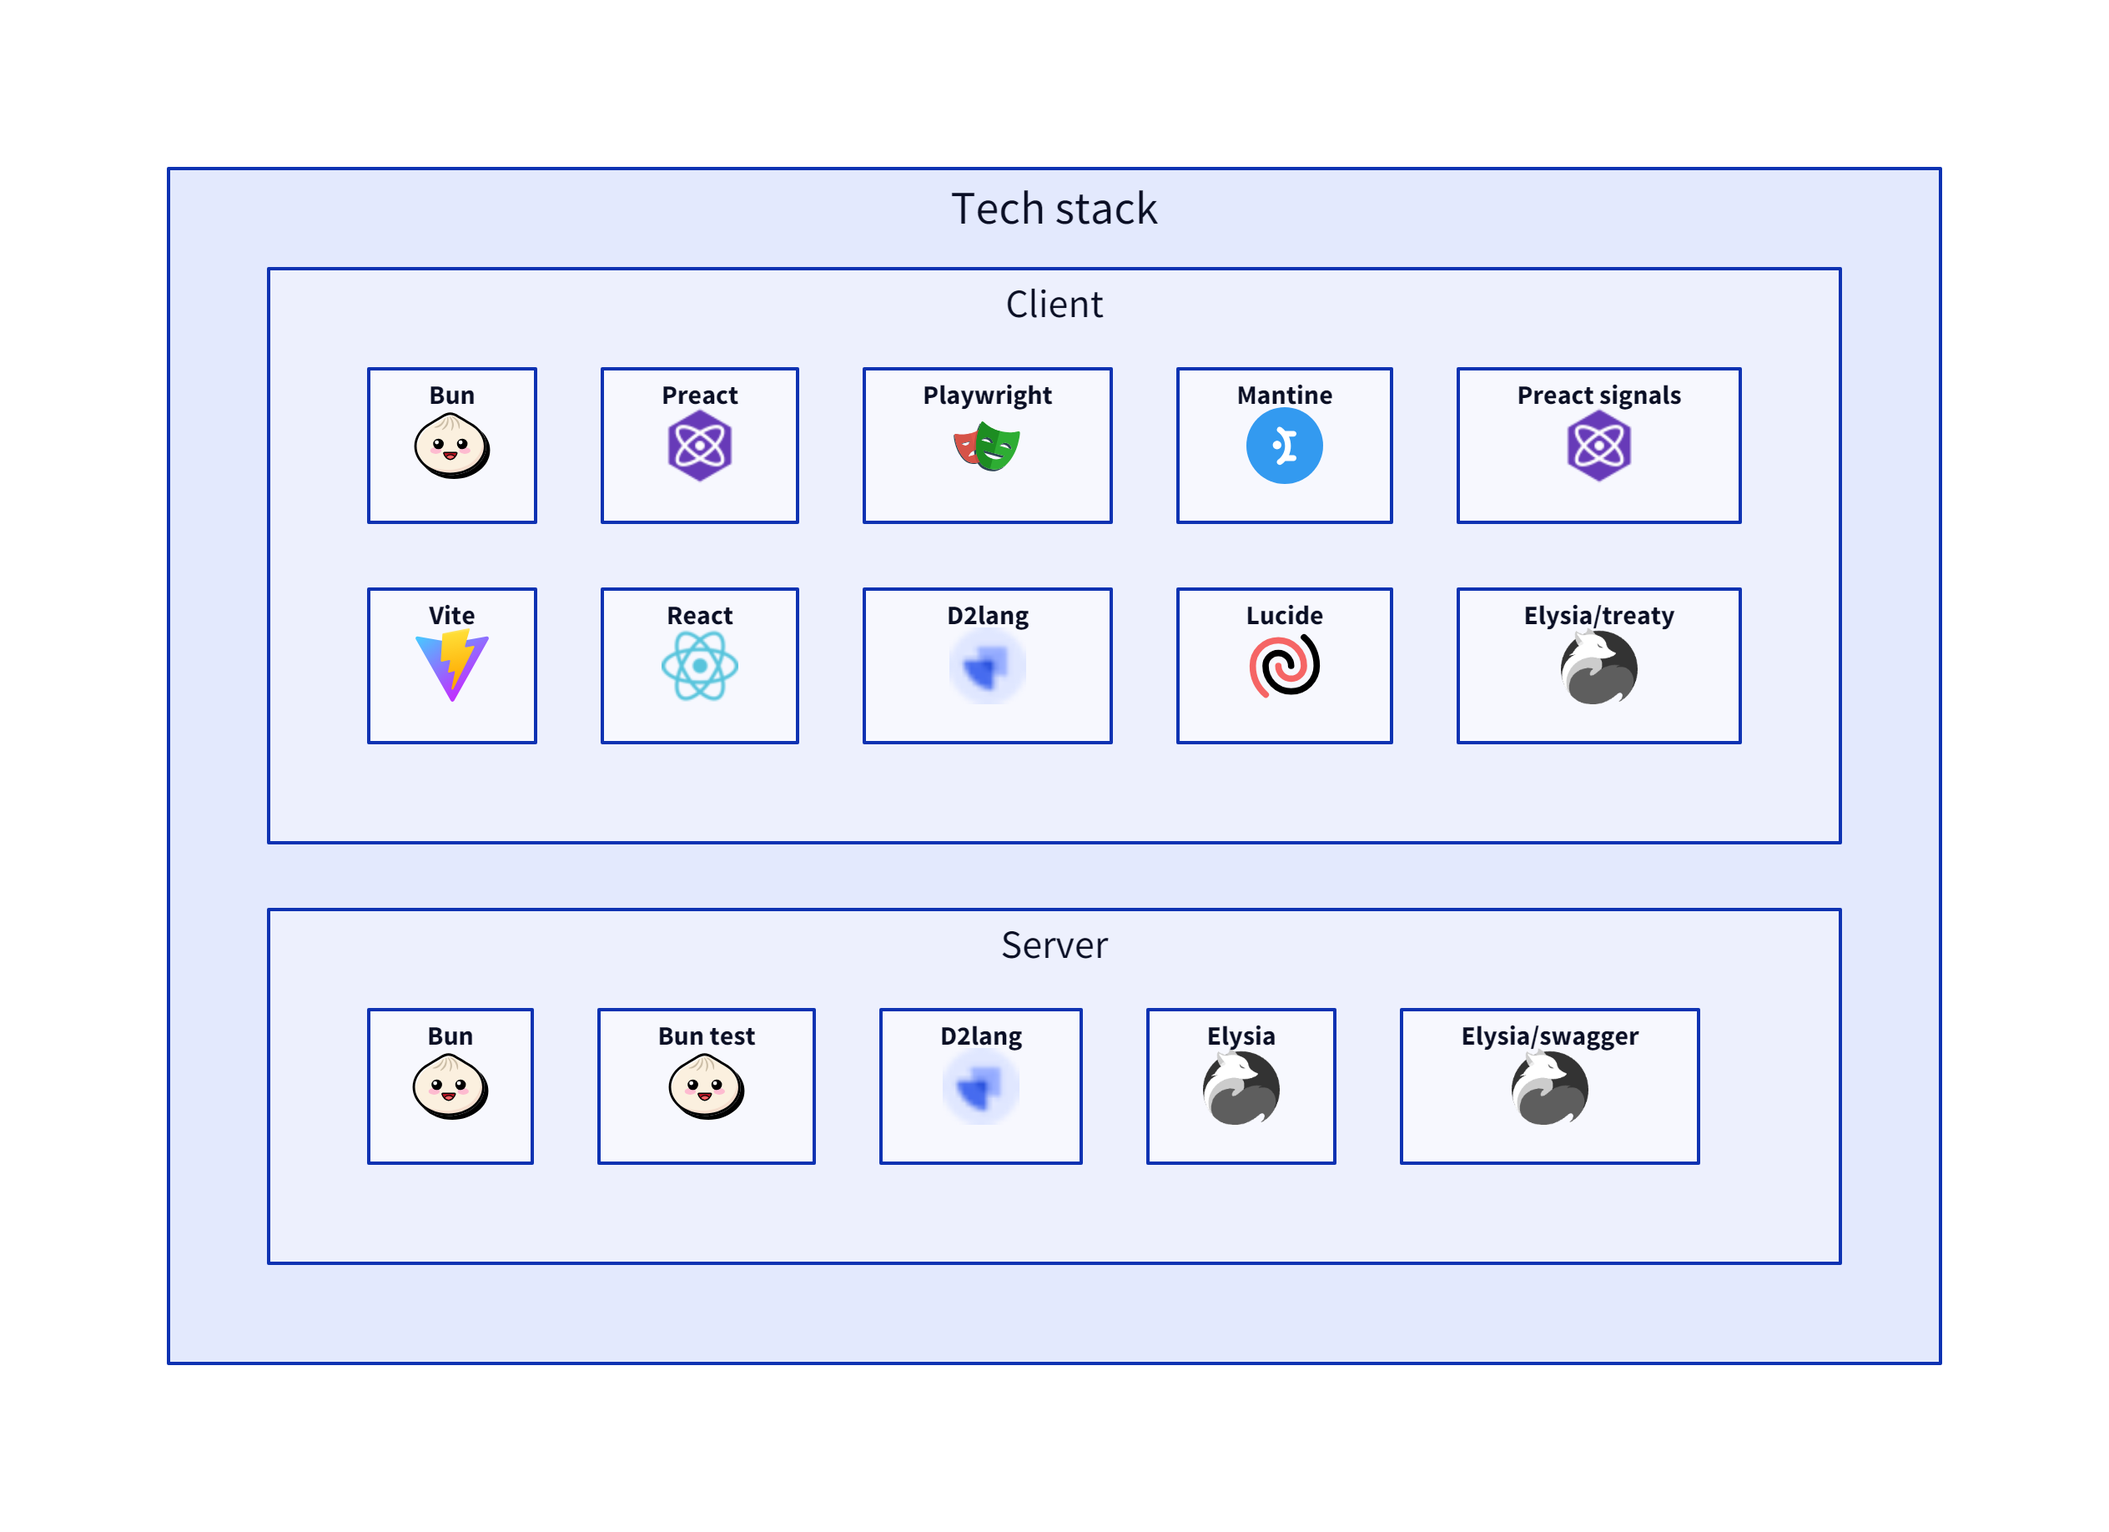
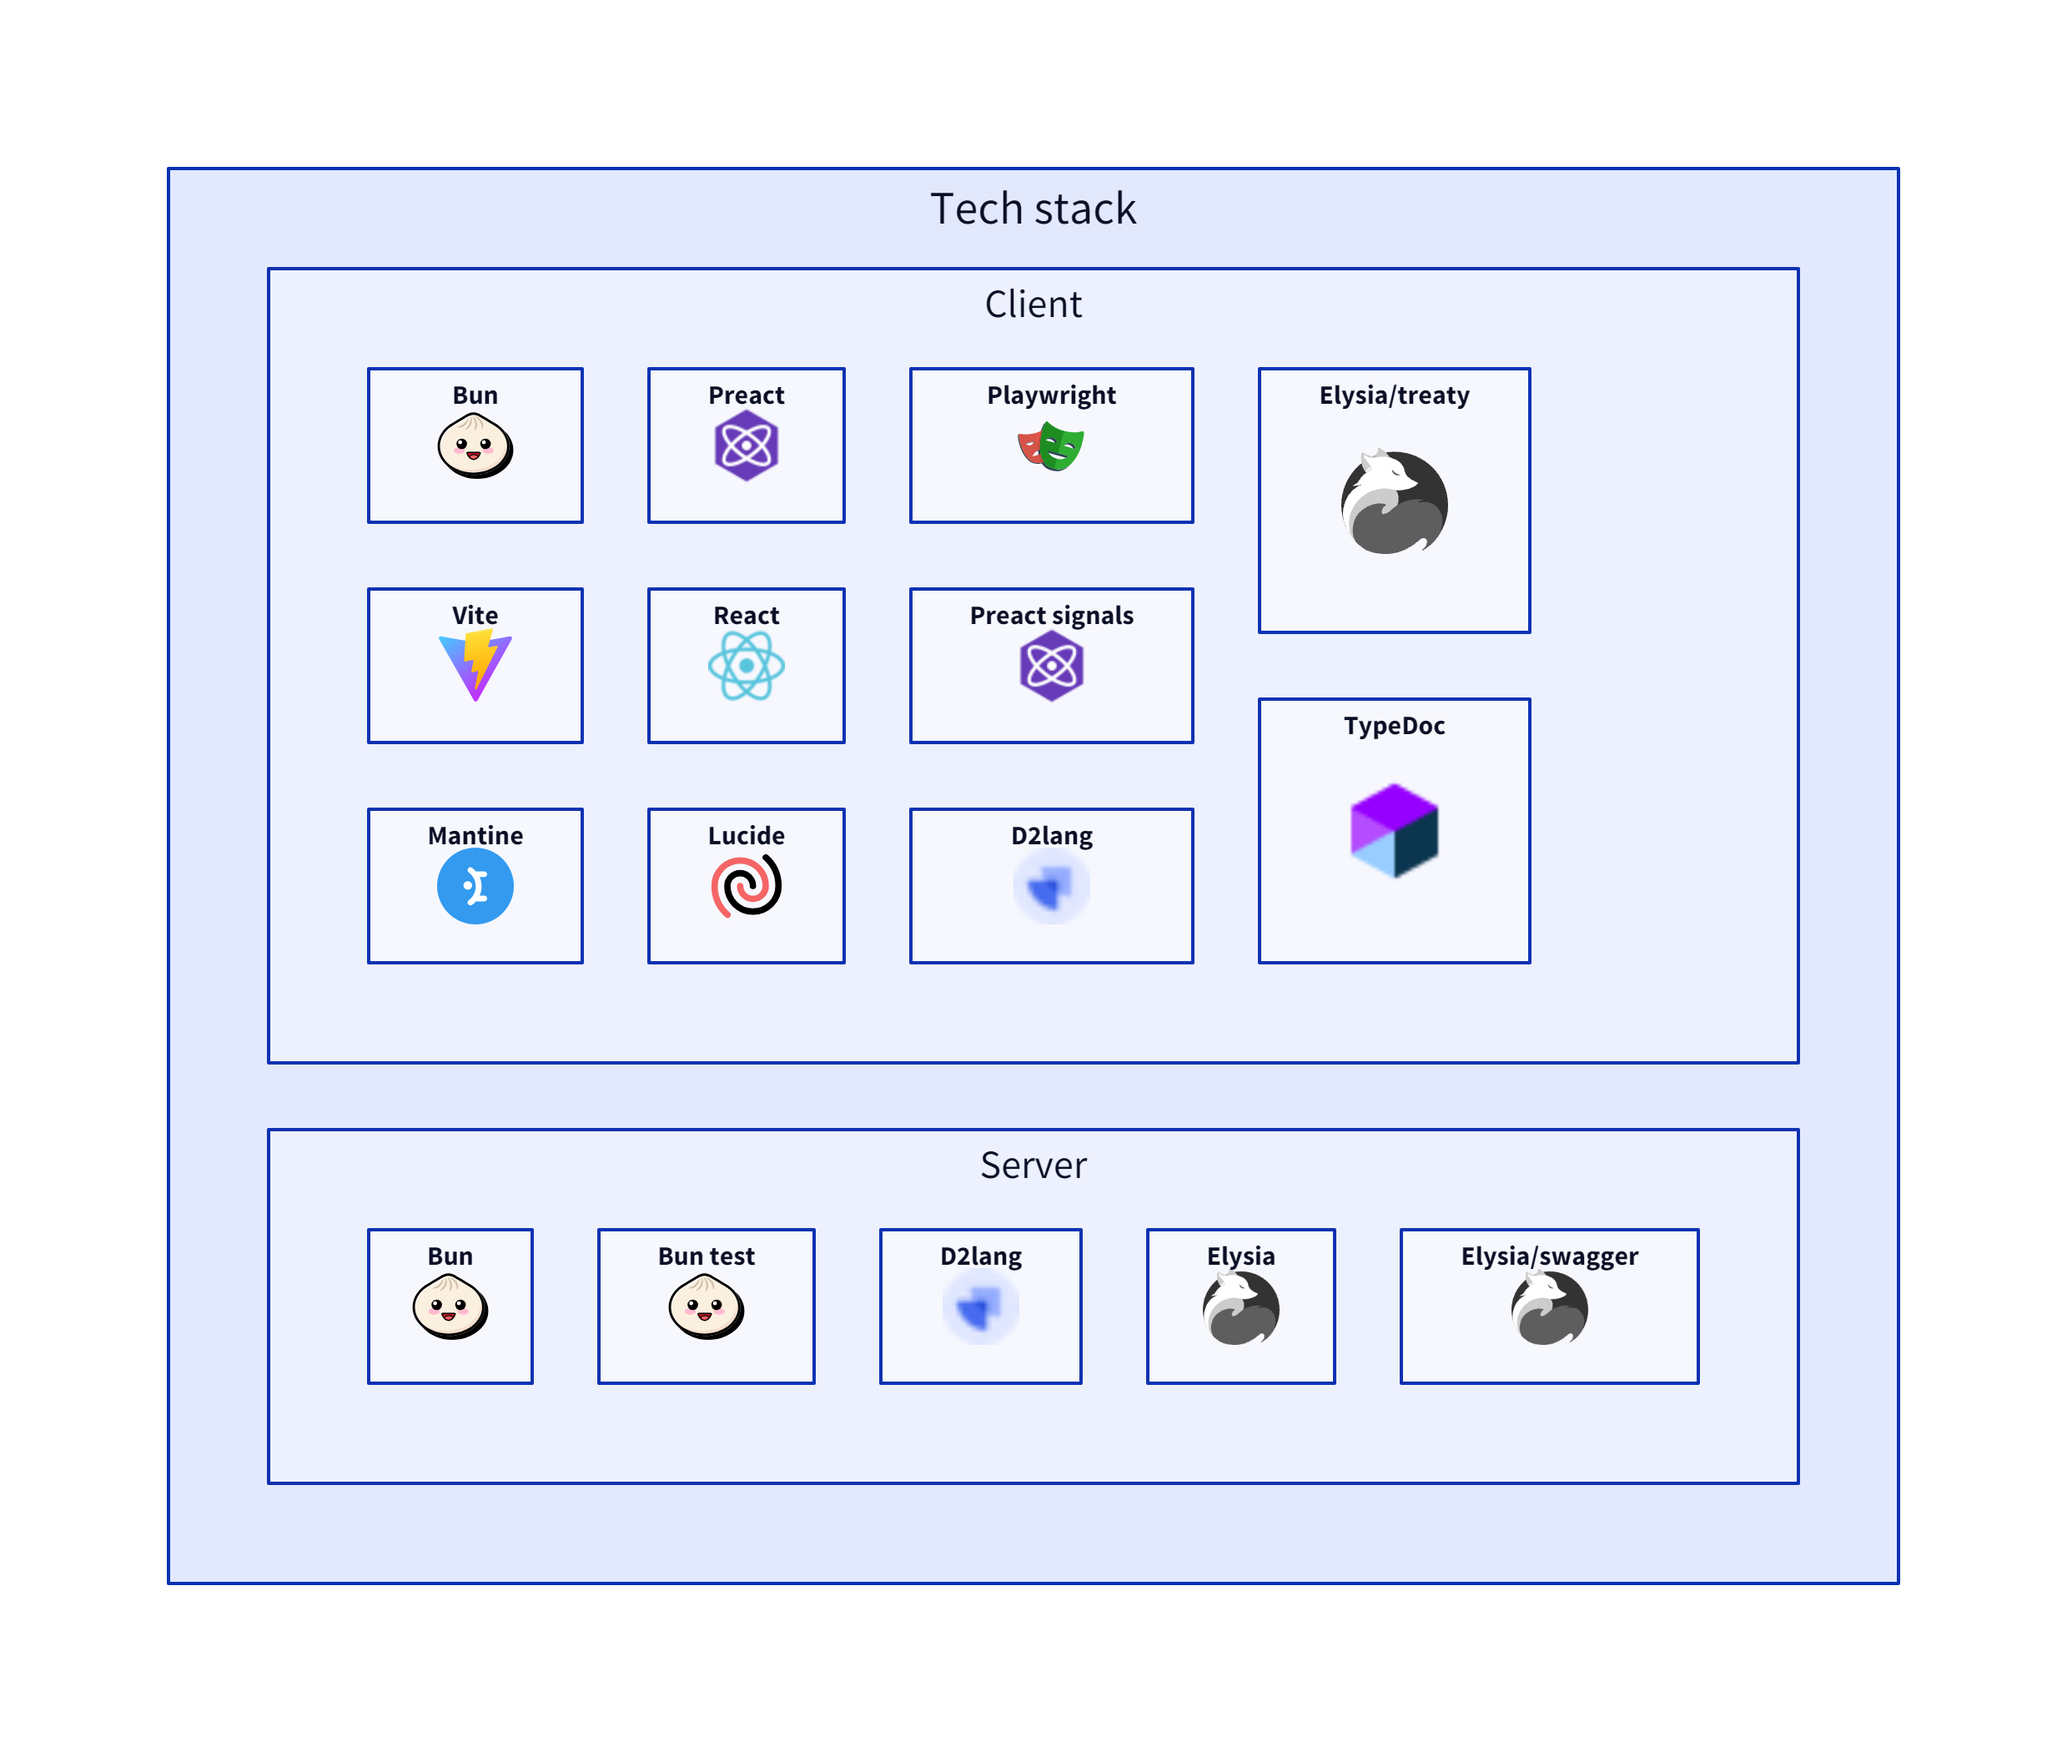
small doc fixes + put back typedoc

diff --git a/Client/src/utils/ComponentToolbox.tsx b/Client/src/utils/ComponentToolbox.tsx
@@ -6,7 +6,7 @@ import { createElement, forwardRef, useEffect } from "react";
 /**
  * Sets the viewport to be full height and width
  * @param props
- * @param {string} [props.selector="#root"] the selector to set to full viewport
+ * @param {string} [props.selector="#root"] the selector to set to full viewport (default: "#root")
  * @param props.children the children to render
  */
 export const FullViewport = ({ selector = "#root", children }: { selector?: string; children?: ReactNode }) => {
@@ -48,33 +48,28 @@ export const Style = (css: Partial<CSSStyleDeclaration>) => {
  * Writes the selectors to the style element
  * @param styleId the id of the style element
  * @param selectors the selectors to write
- * @param bAppend whether to append to the style element or replace the existing style element
  */
-export const WriteSelectors = (styleId: string, selectors: Record<string, Partial<CSSStyleDeclaration>>, bAppend = true) => {
+export const WriteSelectors = (styleId: string, selectors: Record<string, Partial<CSSStyleDeclaration>>) => {
 	let classStyleEl = document.getElementById(styleId);
 	if (!classStyleEl) {
 		classStyleEl = document.createElement("style");
 		classStyleEl.id = styleId;
 		document.head.appendChild(classStyleEl);
 	}
-	classStyleEl.innerHTML = Object.entries(selectors).reduce(
-		(allStyles, [selector, style]) => {
-			allStyles += `${selector} { ${Style(style)} }\n`;
-			return allStyles;
-		},
-		bAppend ? classStyleEl.innerHTML : ""
-	);
+	classStyleEl.innerHTML = Object.entries(selectors).reduce((allStyles, [selector, style]) => {
+		allStyles += `${selector} { ${Style(style)} }\n`;
+		return allStyles;
+	}, "");
 };
 
 /**
  * Writes the classes to the style element
  * @param styleId the id of the style element
  * @param classes the classes to write
- * @param bAppend whether to append to the style element or replace the existing style element
  */
-export const WriteClasses = (styleId: string, classes: Record<string, Partial<CSSStyleDeclaration>>, bAppend = true) => {
+export const WriteClasses = (styleId: string, classes: Record<string, Partial<CSSStyleDeclaration>>) => {
 	const selectors = Object.fromEntries(Object.entries(classes).map(([className, style]) => [`.${className}`, style]));
-	WriteSelectors(styleId, selectors, bAppend);
+	WriteSelectors(styleId, selectors);
 };
 
 /** Writes the toolbox classes, needs to use the component toolbox */
@@ -147,10 +142,7 @@ const getMargin = ({
 	margin?: CssProperty;
 }) => (margin ? { margin } : { marginTop, marginLeft });
 
-/**
- * @notExported
- * The base properties of the box component
- */
+/** The base properties of the box component */
 type BoxBaseProps = {
 	/** the width of the layout */
 	width?: CssProperty;
@@ -227,10 +219,7 @@ const computeBoxBaseStyle = ({
 	border: borderSolid ? (typeof borderSolid === "string" ? `solid ${borderSolid}` : "solid") : undefined,
 });
 
-/**
- * @notExported
- * The base properties of the layout component
- */
+/** The base properties of the layout component */
 type LayoutBaseProps = {
 	// layout: LayoutType; // for unknown reason, Omit<LayoutProps, "layout"> does not work
 	/** the alignment of the items */
@@ -241,10 +230,7 @@ type LayoutBaseProps = {
 	gap?: CssProperty;
 } & BoxBaseProps;
 
-/**
- * @notExported
- * The properties of the layout component
- */
+/** The properties of the layout component */
 type LayoutProps = LayoutBaseProps & ComponentPropsWithoutRef<"div">;
 
 /**
@@ -335,16 +321,10 @@ export const Vertical = forwardRef(function Vertical(props: LayoutProps, ref: Fo
 	return <Layout ref={ref} {...props} layout="vertical" />;
 });
 
-/**
- * @notExported
- * the type of the parameters of a function
- */
+/** The type of the parameters of a function */
 type Params<T> = T extends (...args: [infer U]) => any ? U : Record<string, never>;
 
-/**
- * @notExported
- * the type of a css property
- */
+/** The type of a css property */
 type CssProperty = number | string | undefined;
 
 /**
@@ -352,7 +332,7 @@ type CssProperty = number | string | undefined;
  * @template T the component type
  * @param props
  * @param props.Comp the component to wrap
- * @param {CssProperty?} [props.flexGrow=1] the flex grow value
+ * @param {CssProperty} [props.flexGrow=1] the flex grow value (default: 1)
  * @returns a component with a flex grow property set
  */
 export const FlexGrow = <T extends (...args: any) => any>({
@@ -373,10 +353,7 @@ export const GetIntrinsicComp = <T extends keyof JSX.IntrinsicElements>(tag: T) 
 		return createElement(tag as any, props);
 	};
 
-/**
- * @notExported
- * The properties of the layout component
- */
+/** The properties of the layout component */
 type BoxProps = LayoutBaseProps & ComponentPropsWithoutRef<"div">;
 
 /**

diff --git a/Client/src/utils/MultiIf.tsx b/Client/src/utils/MultiIf.tsx
@@ -1,4 +1,4 @@
-import type { ReactNode } from "react";
+import { useMemo, type ReactNode } from "react";
 
 /**
  * A if statement in JSX.
@@ -8,32 +8,64 @@ import type { ReactNode } from "react";
  * @param props.else the else branch of the if statement
  * @returns the result of the if statement
  */
-export const If = ({ condition, then, else: else_ }: { condition: boolean; then: ReactNode; else?: ReactNode }) => (
-	<>{condition ? then : else_}</>
-);
+export const If = ({ condition, then, else: else_ }: { condition: boolean; then: () => ReactNode; else?: () => ReactNode }) =>
+	// eslint-disable-next-line react-hooks/exhaustive-deps
+	useMemo(() => (condition ? then() : else_?.()), [condition]);
 
 /**
- * A switch statement in JSX.
- * @param props the props
- * @param props.value the value to switch on
- * @param props.branches the branches of the switch statement
- * @param props.default the default branch, if none of the branches match
+ * The parameters of the SwitchV function
+ * @template T the type of the value
+ * @template V the type of the result
+ * @template U the type of the transformed value
+ */
+export type SwitchVProps<T, V, U = T> = {
+	/** The value to pass to the cases */
+	value: T;
+	/** The function to transform the value before passing it to the cases (default: identity function) */
+	transform?: (v: T) => U;
+	/** The branches of the switch statement */
+	cases: [U, (t: T, u: U) => V][];
+	/** The default branch, if none of the branches match */
+	defaultCase?: (t: T, u: U) => V;
+};
+
+/**
+ * A switch statement.
+ * @template T the type of the value
+ * @template V the type of the result
+ * @template U the type of the transformed value
+ * @param props
+ * @param props.value the value to pass to the cases
+ * @param props.transform the function to transform the value before passing it to the cases (default: identity function)
+ * @param props.cases the branches of the switch statement
+ * @param props.defaultCase the default branch, if none of the branches match
  * @returns the result of the switch statement
  */
-export const SwitchV = <T,>({
-	value,
-	branches,
-	default: default_,
-}: {
-	value: T;
-	branches: { case: T | T[]; then: ReactNode }[];
-	default?: ReactNode;
-}) => {
-	const branch = branches.find((branch) =>
-		typeof branch.case === typeof value ? branch.case === value : (branch.case as T[]).includes(value)
-	);
-	return <>{branch !== undefined ? branch.then : default_}</>;
+export const SwitchV = <T, V, U = T>({ value, transform, cases, defaultCase }: SwitchVProps<T, V, U>) => {
+	const transformedValue = transform ? transform(value) : (value as unknown as U);
+	const foundCase = cases.find(([u]) => u === transformedValue);
+	return foundCase ? foundCase[1](value, transformedValue) : defaultCase?.(value, transformedValue);
 };
+
+/**
+ * @see {@link SwitchV}
+ * A switch statement component in JSX.
+ * @template T the type of the value
+ * @template U the type of the transformed value
+ * @param props
+ * @param props.value the value to pass to the cases
+ * @param props.transform the function to transform the value before passing it to the cases (default: identity function)
+ * @param props.cases the branches of the switch statement
+ * @param props.defaultCase the default branch, if none of the branches match
+ * @returns the result of the switch statement
+ */
+export const SwitchVComp = <T, U = T>({ value, transform, cases, defaultCase }: SwitchVProps<T, ReactNode, U>) =>
+	useMemo(() => {
+		const transformedValue = transform ? transform(value) : (value as unknown as U);
+		const foundCase = cases.find(([u]) => u === transformedValue);
+		return foundCase ? foundCase[1](value, transformedValue) : defaultCase?.(value, transformedValue);
+		// eslint-disable-next-line react-hooks/exhaustive-deps
+	}, [value]);
 
 /**
  * A multi if statement in JSX.
@@ -42,7 +74,15 @@ export const SwitchV = <T,>({
  * @param props.else the else branch, if none of the branches match
  * @returns the result of the multi if statement
  */
-export const MultiIf = ({ branches, else: else_ }: { branches: { condition: boolean; then: ReactNode }[]; else?: ReactNode }) => {
-	const branch = branches.find((branch) => branch.condition);
-	return <>{branch !== undefined ? branch.then : else_}</>;
-};
+export const MultiIf = ({
+	branches,
+	else: else_,
+}: {
+	branches: { condition: boolean; then: () => ReactNode }[];
+	else?: () => ReactNode;
+}) =>
+	useMemo(() => {
+		const branch = branches.find((branch) => branch.condition);
+		return branch ? branch.then() : else_?.();
+		// eslint-disable-next-line react-hooks/exhaustive-deps
+	}, [branches]);

diff --git a/Client/src/globalState.ts b/Client/src/globalState.ts
@@ -2,7 +2,7 @@ import { api } from "@/api/api";
 import type { ColorSchemeType, DynDict, LanguageType, TranslationCategoryType } from "@/Shared/SharedModel";
 import type { Tr } from "@/tr/en";
 import type { RecursiveReadOnlySignal, SignalToValue } from "@/utils/signalUtils";
-import { computed, effect, signal, Signal } from "@preact/signals";
+import { computed, effect, signal, type Signal } from "@preact/signals";
 
 export const LOCAL_STORAGE_KEY = "template_globalState" as const;
 

diff --git a/Client/src/utils/StateHistoryManager.ts b/Client/src/utils/StateHistoryManager.ts
@@ -12,8 +12,9 @@ export class StateHistoryManager<T> {
 
 	/**
 	 * Create a new instance of the StateHistoryManager.
-	 * @param getState return the current state.
-	 * @param setState update the state.
+	 * @param p the parameters.
+	 * @param p.getState return the current state.
+	 * @param p.setState update the state.
 	 */
 	constructor(private p: { getState: () => T; setState: (state: T) => void }) {}
 

diff --git a/Client/src/Actions/impl/ColorSchemeImpl.ts b/Client/src/Actions/impl/ColorSchemeImpl.ts
@@ -1,6 +1,6 @@
 import type { IColorScheme } from "@/actions/actions.interface";
 import { state } from "@/actions/actions.state";
-import { ColorSchemeType } from "@/Shared/SharedModel";
+import type { ColorSchemeType } from "@/Shared/SharedModel";
 
 export class ColorSchemeImpl implements IColorScheme {
 	updateFn = (colorScheme: ColorSchemeType, useTransition: boolean) => () => {

diff --git a/Client/tests/testUtils.ts b/Client/tests/testUtils.ts
@@ -1,5 +1,6 @@
 export { wait } from "@/Shared/SharedUtils";
-import test, { Page } from "@playwright/test";
+import type test from "@playwright/test";
+import type { Page } from "@playwright/test";
 import MCR from "monocart-coverage-reports";
 import { env } from "process";
 

diff --git a/Client/src/Actions/impl/WakeLockImpl.ts b/Client/src/Actions/impl/WakeLockImpl.ts
@@ -1,4 +1,4 @@
-import { IWakeLock } from "@/actions/actions.interface";
+import type { IWakeLock } from "@/actions/actions.interface";
 import { state } from "@/actions/actions.state";
 import { effect, signal } from "@preact/signals";
 import toast from "react-hot-toast";

diff --git a/Client/eslint.config.js b/Client/eslint.config.js
@@ -65,6 +65,7 @@ export default tseslint.config(
 			"react-hooks/rules-of-hooks": "error",
 			"react-hooks/exhaustive-deps": "warn",
 			"@typescript-eslint/no-namespace": "off",
+			"@typescript-eslint/consistent-type-imports": "warn",
 		},
 	}
 );

diff --git a/Client/src/utils/signalUtils.ts b/Client/src/utils/signalUtils.ts
@@ -223,7 +223,7 @@ export class SignalControlled<T> {
 
 	/**
 	 * Constructs a controlled signal.
-	 * @param value the initial value
+	 * @param value_ the initial value
 	 */
 	constructor(private value_: T) {}
 

diff --git a/README.md b/README.md
@@ -29,7 +29,7 @@ The `Light versions` remove the dependencies with `typebox`, `mantine`, `react-h
 - [x] Structured code (server and client)
 - [x] Tests (server and client)
 - [x] Code coverage (server and client)
-- [x] Documentation (server and client) _(WIP: change of doc tool)_
+- [x] Documentation (client) _(WIP: add of Storybook on client, and see for Server)_
 - [x] Dependency graph (server and client)
 - [x] Linting (server and client)
 - [x] API type safety (server and client)

diff --git a/Client/README.md b/Client/README.md
@@ -8,6 +8,7 @@ This is the client side of the application.
 
 - [bun](https://bun.sh/)
 - [serve](https://www.npmjs.com/package/serve)
+- [typedoc](https://typedoc.org/)
 - [playwright](https://playwright.dev/) + ([VsCode extension](https://marketplace.visualstudio.com/items?itemName=ms-playwright.playwright))
 
 ## Installation
